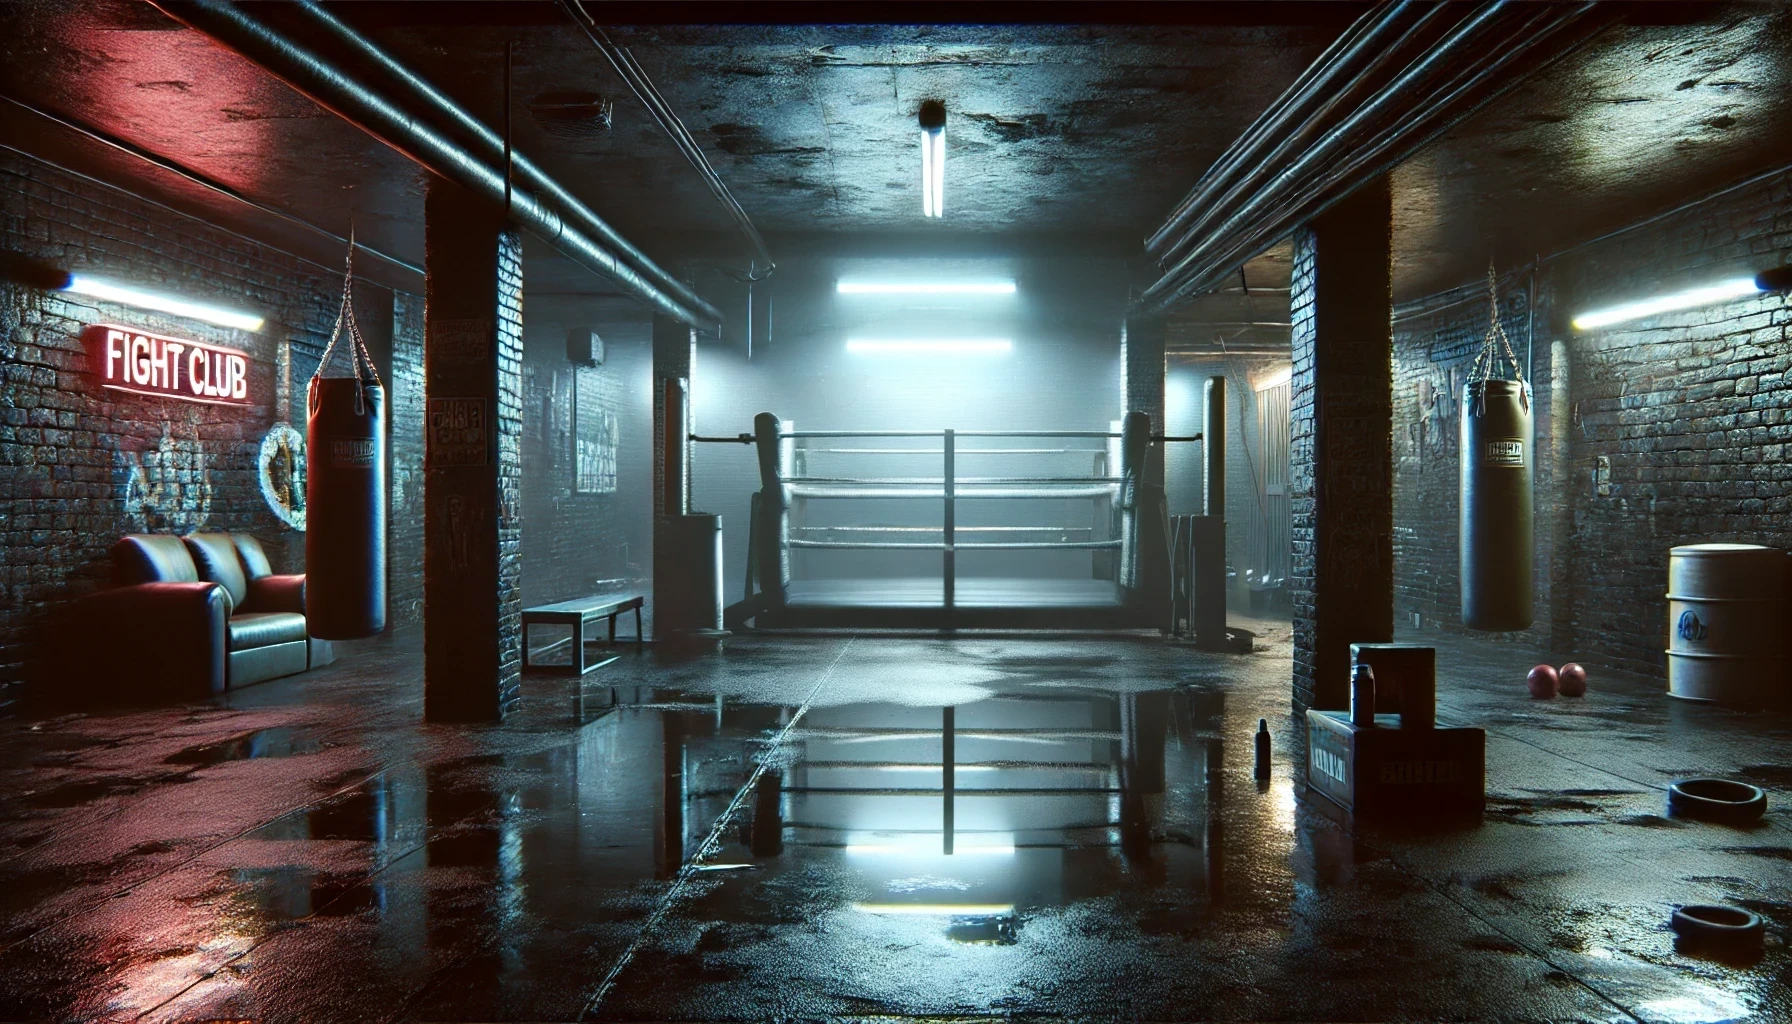
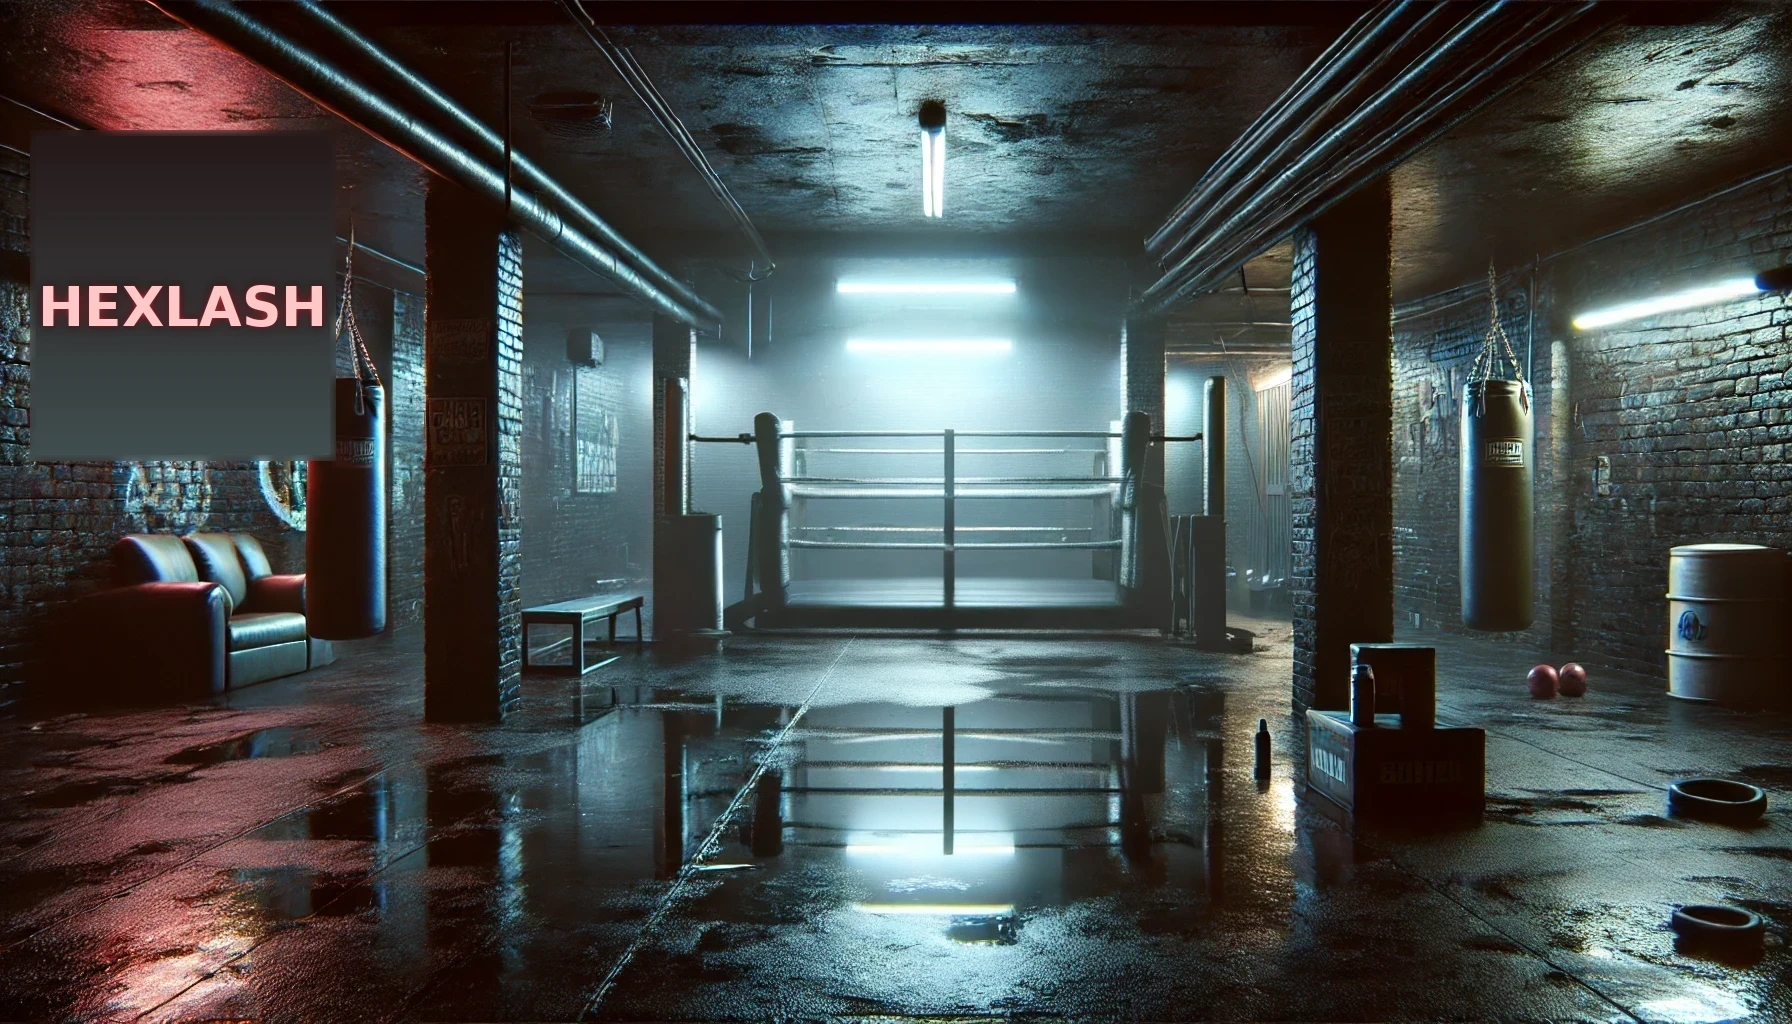
feat: rebrand FIGHT CLUB → HEXLASH across all assets
- Replace FIGHT CLUB neon sign on training arena wall with HEXLASH (background_trainings.webp)
- Replace FIGHT CLuB logo on punch bag texture with HEXLASH (punch_texture2.webp)
- Increase NEVER GIVE UP text 24px→42px, explicit center alignment
- Raise HEXLASH ghost logo to top:22% above the motivational text

https://claude.ai/code/session_011mXZhXkzHfEsx9t6GzMu9Y

Changed region(s): [[0.0, 0.2188, 0.1875, 0.4688], [0.0312, 0.125, 0.1875, 0.2188]]

diff --git a/index.html b/index.html
@@ -60,7 +60,10 @@
         }
 
         .loading-hexlash {
-            position: absolute;
+            position: fixed;
+            top: 22%;
+            left: 50%;
+            transform: translateX(-50%);
             font-size: 72px;
             font-weight: 900;
             color: rgba(255, 6, 111, 0.08);
@@ -72,11 +75,13 @@
         }
 
         .loading-never-give-up {
-            font-size: 24px;
+            font-size: 42px;
             font-weight: 700;
             color: #fff;
             text-transform: uppercase;
             letter-spacing: 5px;
+            text-align: center;
+            width: 100%;
             z-index: 1;
             font-family: Anonymous, monospace;
             text-shadow:

diff --git a/src/views/CardFightView.vue b/src/views/CardFightView.vue
@@ -526,6 +526,9 @@ const flashStyle = computed(() => ({
 
 .loading-hexlash {
   position: absolute;
+  top: 22%;
+  left: 50%;
+  transform: translateX(-50%);
   font-size: 72px;
   font-weight: 900;
   color: rgba(255, 6, 111, 0.08);
@@ -533,14 +536,17 @@ const flashStyle = computed(() => ({
   text-transform: uppercase;
   user-select: none;
   font-family: Anonymous, sans-serif;
+  white-space: nowrap;
 }
 
 .loading-never-give-up {
-  font-size: 24px;
+  font-size: 42px;
   font-weight: 700;
   color: #fff;
   text-transform: uppercase;
   letter-spacing: 5px;
+  text-align: center;
+  width: 100%;
   z-index: 1;
   font-family: Anonymous, sans-serif;
   text-shadow:
